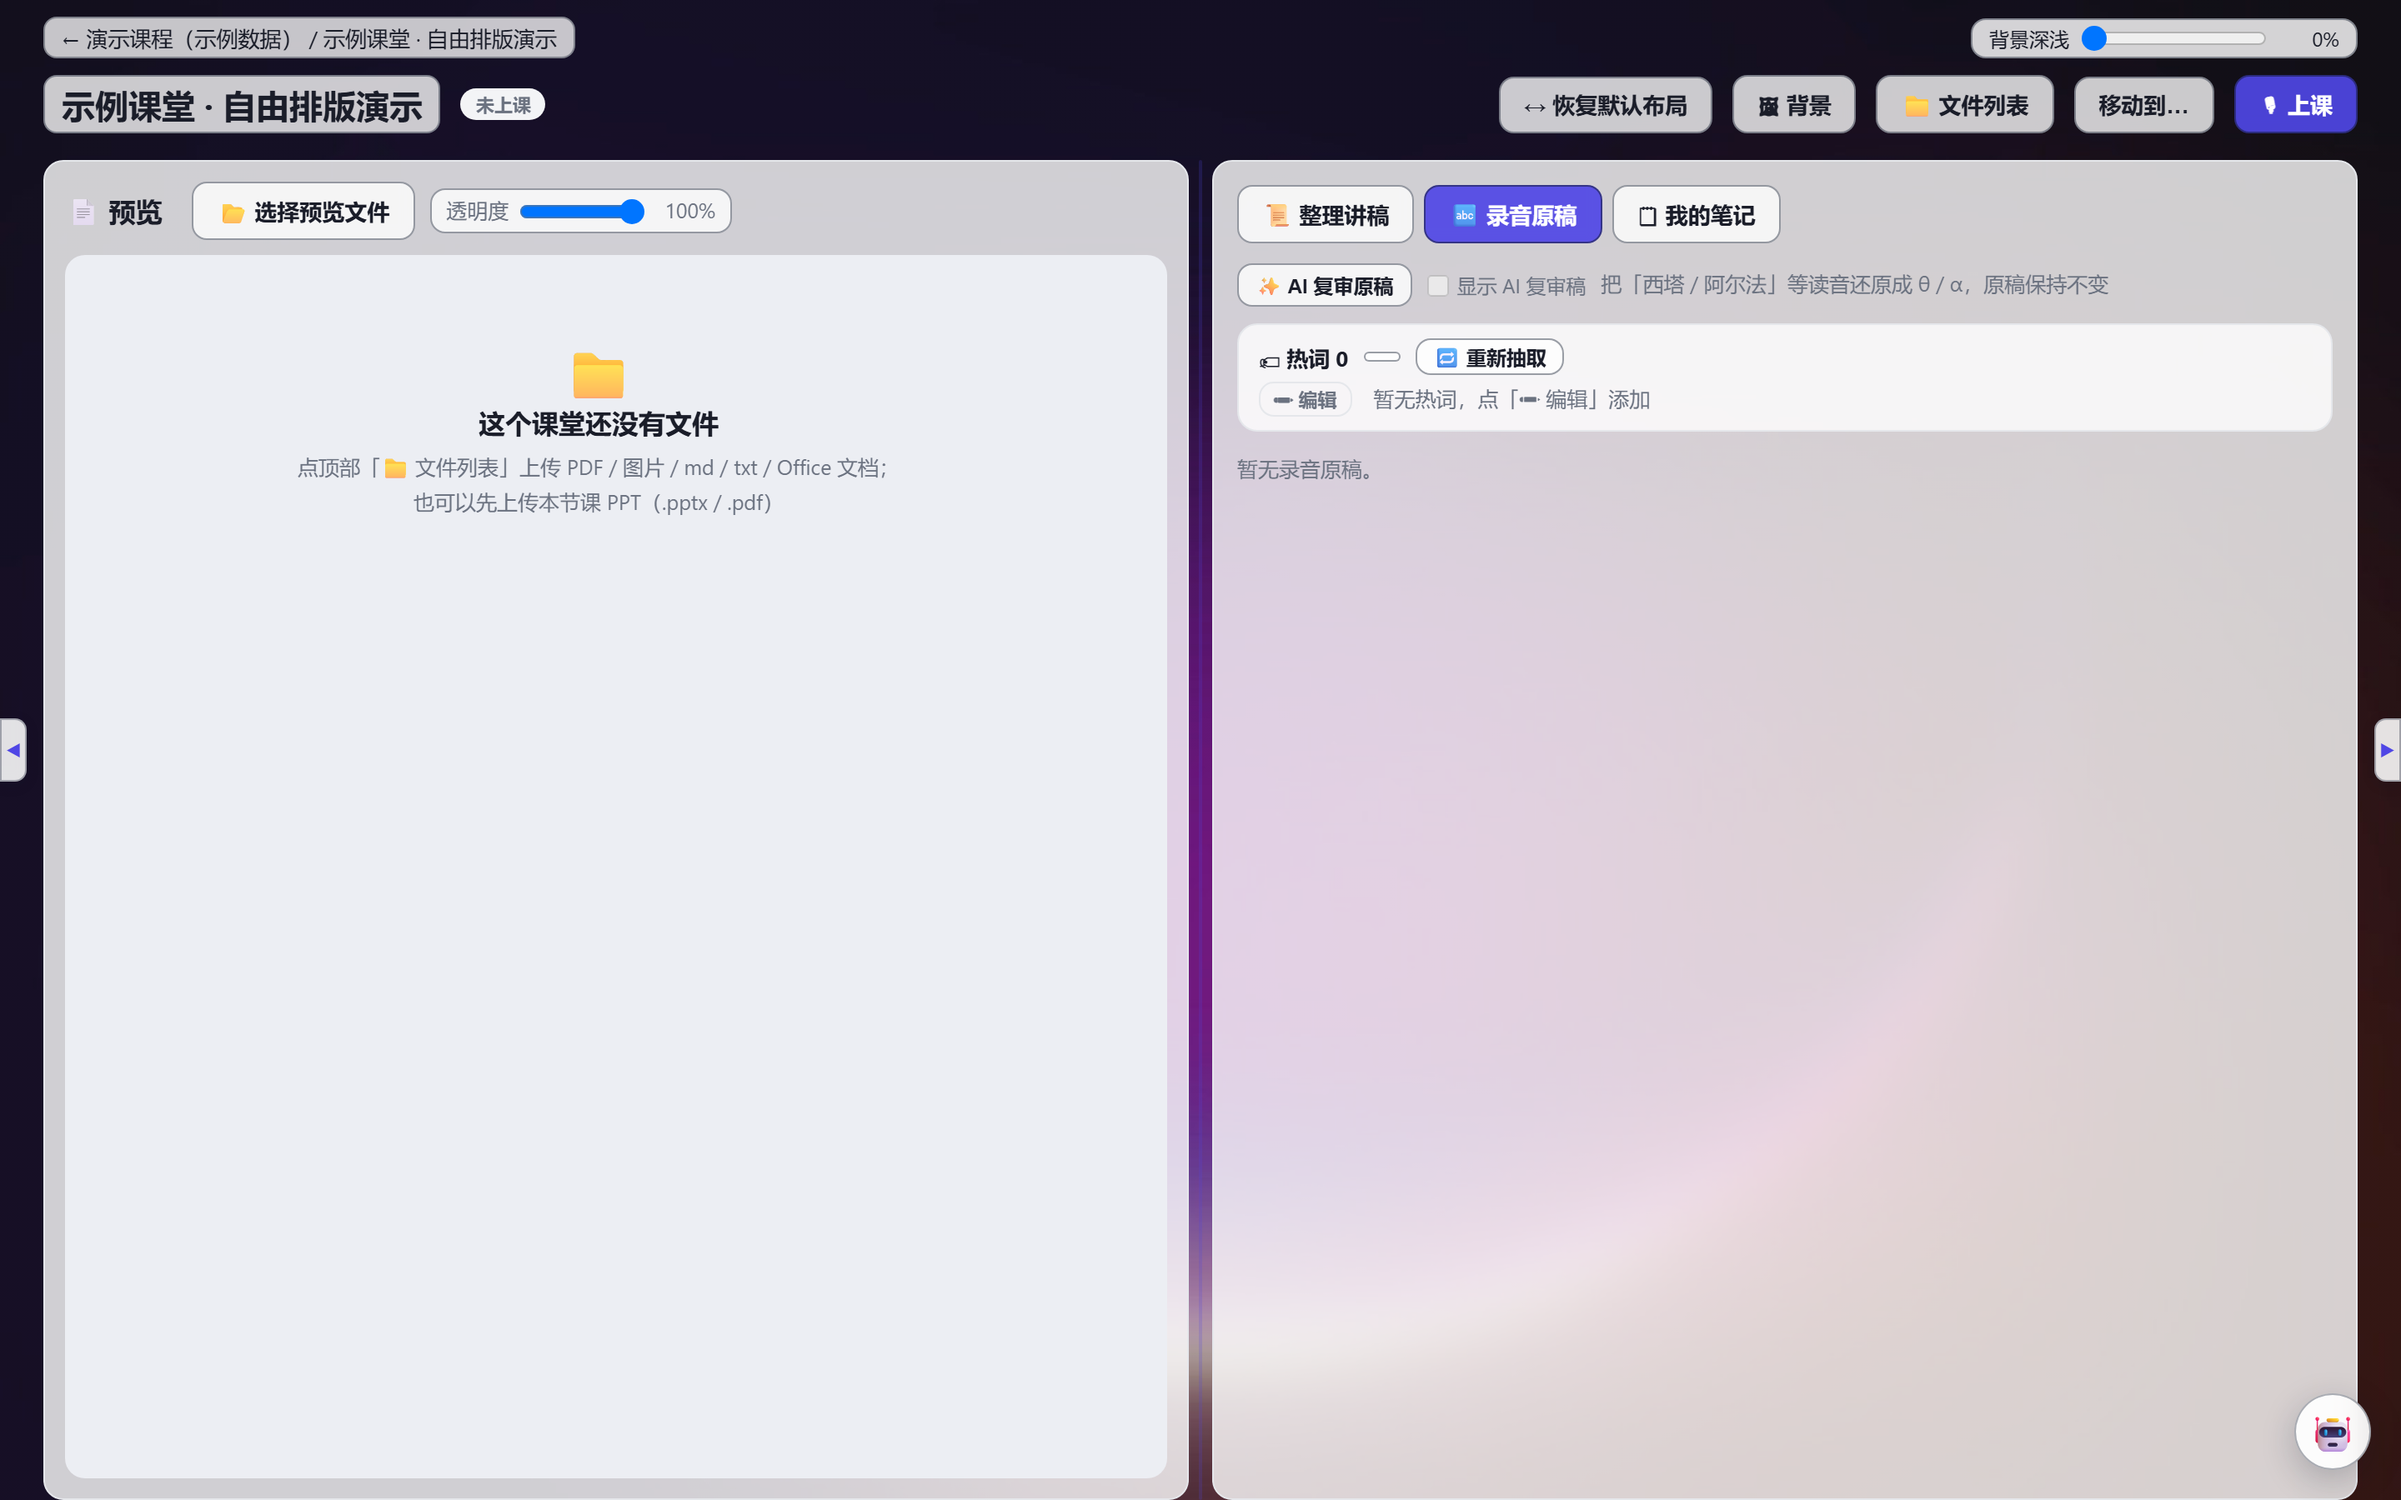
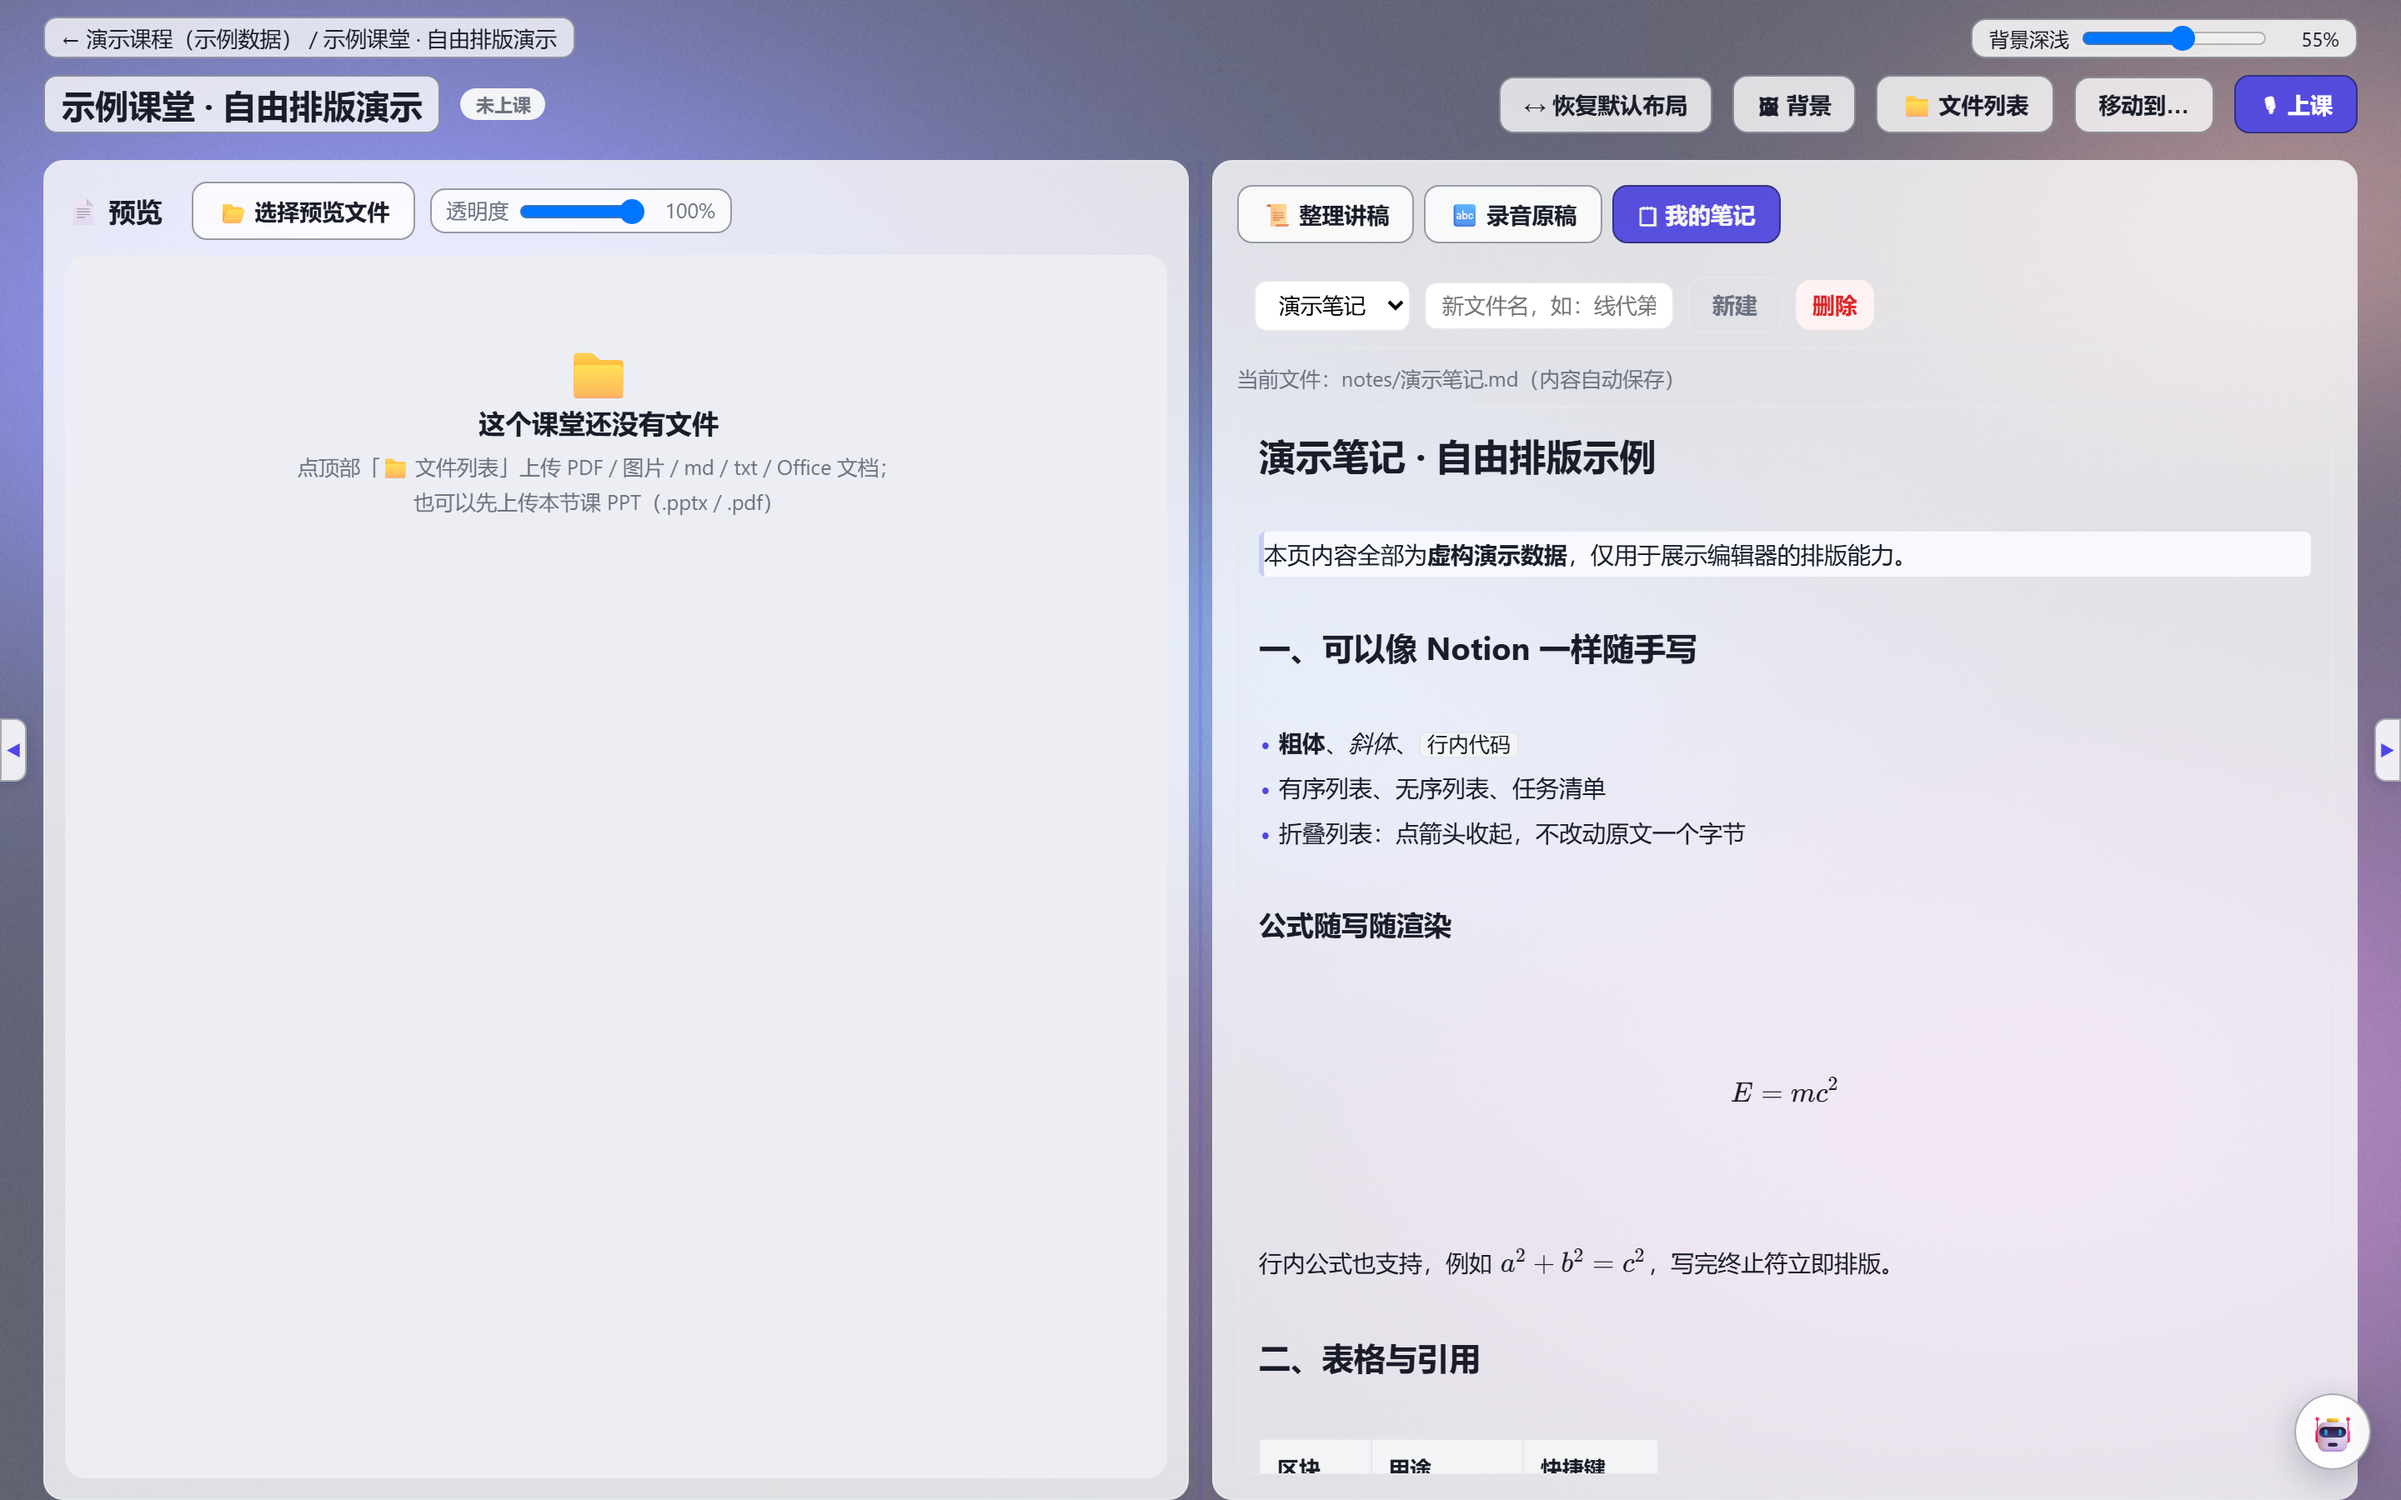
docs: 截图改用原创背景与虚构演示数据, 补充版权说明

diff --git a/README.md b/README.md
@@ -176,7 +176,7 @@ flowchart TD
 
 ## 界面一览
 
-> 截图中的课程、笔记、讲稿、转写文本均为**虚构演示数据**，不含任何真实课堂内容。
+> 截图中的课程、笔记、讲稿、转写文本均为**虚构演示数据**，不含任何真实课堂内容；页面底图是程序生成的原创渐变图，无第三方素材。
 
 ### 上课页：转写 / 课件 / 笔记三栏同屏
 
